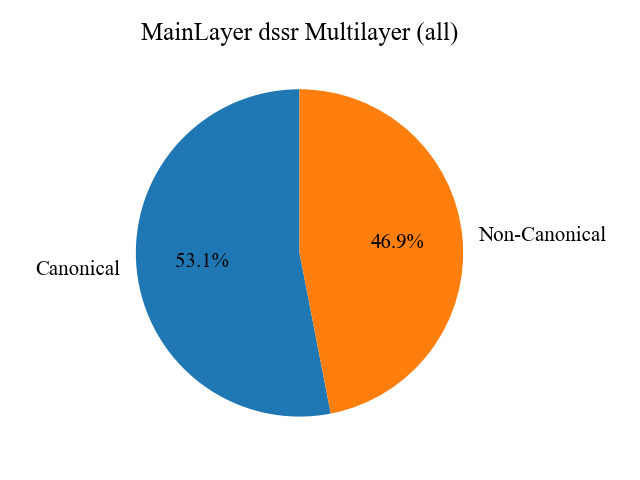
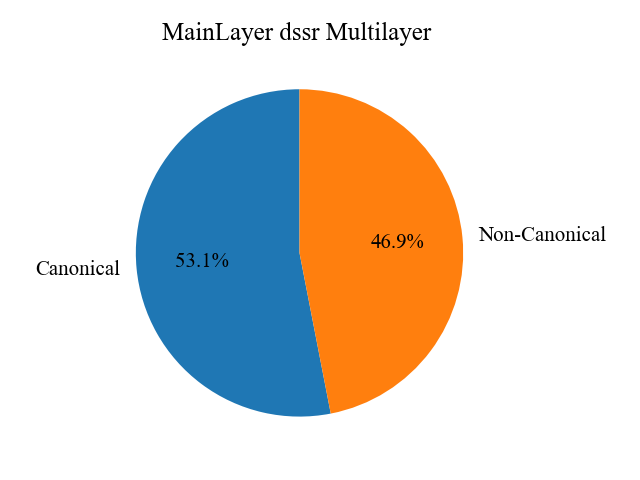
計算し直した

Changed region(s): [[0.2188, 0.0312, 0.7188, 0.0938]]

diff --git a/analysis/pseudoknotlayer_plotting.py b/analysis/pseudoknotlayer_plotting.py
@@ -149,7 +149,7 @@ for parser in parsers:
                         autopct='%1.1f%%',
                         labels=['Canonical', 'Non-Canonical'],
                         startangle=90,
-                        title=f'{title} {parser} {"Multilayer" if multilayer else "Single-layer"} ({variant})'
+                        title=f'{title} {parser} {"Multilayer" if multilayer else "Single-layer"} '
                     )
                     plt.ylabel('')
                     plt.tight_layout()
